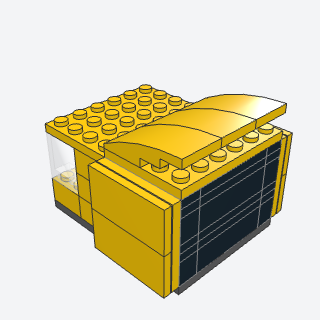
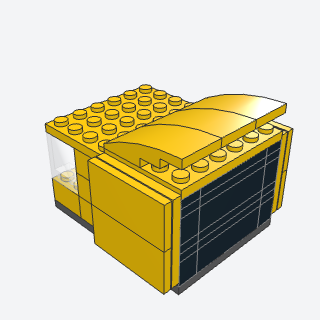
3D: Batches 13 and 14: cab_over_sleeper's panels seat on their studs, beam_spine_floor's pins go in first

diff --git a/docs/techniques/candidates/batch-14/beam_spine_floor.py b/docs/techniques/candidates/batch-14/beam_spine_floor.py
@@ -56,6 +56,15 @@ def build(
     with m.step(f"{title}: bricks, left"):
         for a in range(0, length, 4):
             m.add("3701", color, at=(x + a, y, z), rot=1)
+    # Pins go into each brick before what they hold: the left ones into the left bricks, the beams onto them, the
+    # right ones into the beams, the right bricks onto those.
+    starts = range(0, length, 4)
+    halves = (starts[: len(starts) // 2], starts[len(starts) // 2 :])
+    for k, half in enumerate(halves):
+        with m.step(f"{title}: pins, left, {'front' if k == 0 else 'back'}"):
+            for a in half:
+                for h in (1, 3):
+                    _put(m, "6558", pin, (x + a + h, y + 1.5, zc))
     for k, row in enumerate(ROWS[length]):
         with m.step(f"{title}: beams, row {k + 1}"):
             first = 1
@@ -68,20 +77,12 @@ def build(
                     ON_EDGE,
                 )
                 first += n
-    with m.step(f"{title}: bricks, right"):
-        for a in range(0, length, 4):
-            m.add("3701", color, at=(x + a, y + 3, z), rot=1)
-    # Pins from the left through the bricks' outer holes, from the right through their middle ones.
-    starts = range(0, length, 4)
-    halves = (starts[: len(starts) // 2], starts[len(starts) // 2 :])
-    for k, half in enumerate(halves):
-        with m.step(f"{title}: pins, left, {'front' if k == 0 else 'back'}"):
-            for a in half:
-                for h in (1, 3):
-                    _put(m, "6558", pin, (x + a + h, y + 1.5, zc))
     with m.step(f"{title}: pins, right"):
         for a in starts:
             _put(m, "6558", pin, (x + a + 2, y + 2.5, zc))
+    with m.step(f"{title}: bricks, right"):
+        for a in range(0, length, 4):
+            m.add("3701", color, at=(x + a, y + 3, z), rot=1)
     if floor is None:
         return z + 3
     with m.step(f"{title}: floor"):

diff --git a/docs/techniques/candidates/batch-13/cab_over_sleeper.py b/docs/techniques/candidates/batch-13/cab_over_sleeper.py
@@ -36,11 +36,13 @@ def build(m, x, y, z, color="Yellow", trim="Black", fairing="Yellow", title="Sle
                     m.add("3710", trim, at=(x, side, z + h + 3 + k), rot=1)
                 m.add("3710", trim, at=(x + 3, y + 1, z + h + 3 + k), rot=0)
     with m.step(f"{title}: side panels"):
-        m.add("3031", color, at=(x, y - 0.4, z), rot=LEFT)
-        m.add("3031", color, at=(x, y + 6, z), rot=RIGHT)
+        # Half a plate up: the side studs are 1.75 plates above each brick's bottom, the plate's anti-studs 1.25 from
+        # its edge.
+        m.add("3031", color, at=(x, y - 0.4, z + 0.5), rot=LEFT)
+        m.add("3031", color, at=(x, y + 6, z + 0.5), rot=RIGHT)
         for k in range(2):
-            m.add("87079", color, at=(x, y - 0.8, z + 5 * k), rot=LEFT)
-            m.add("87079", color, at=(x, y + 6.4, z + 5 * k), rot=RIGHT)
+            m.add("87079", color, at=(x, y - 0.8, z + 0.5 + 5 * k), rot=LEFT)
+            m.add("87079", color, at=(x, y + 6.4, z + 0.5 + 5 * k), rot=RIGHT)
     with m.step(f"{title}: fairing"):
         m.add("3032", fairing, at=(x, y, z + 10), rot=0)
         for k in range(3):
